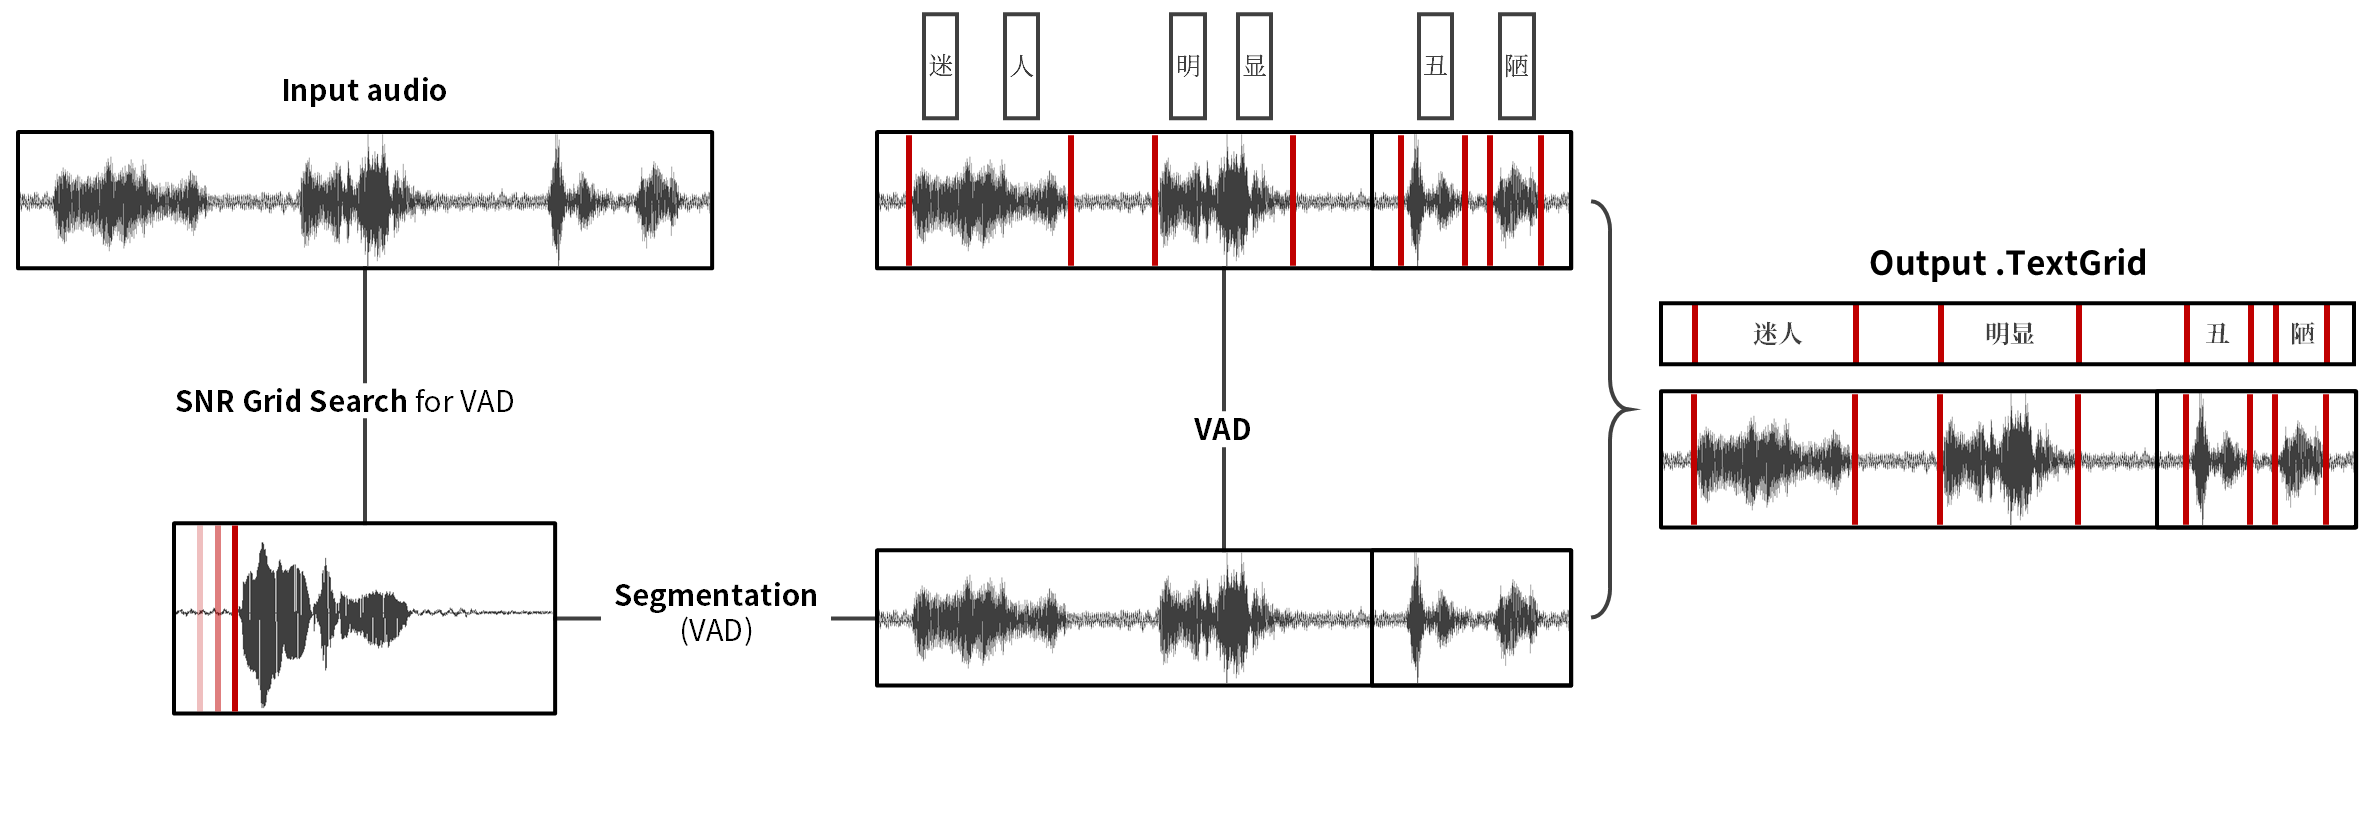
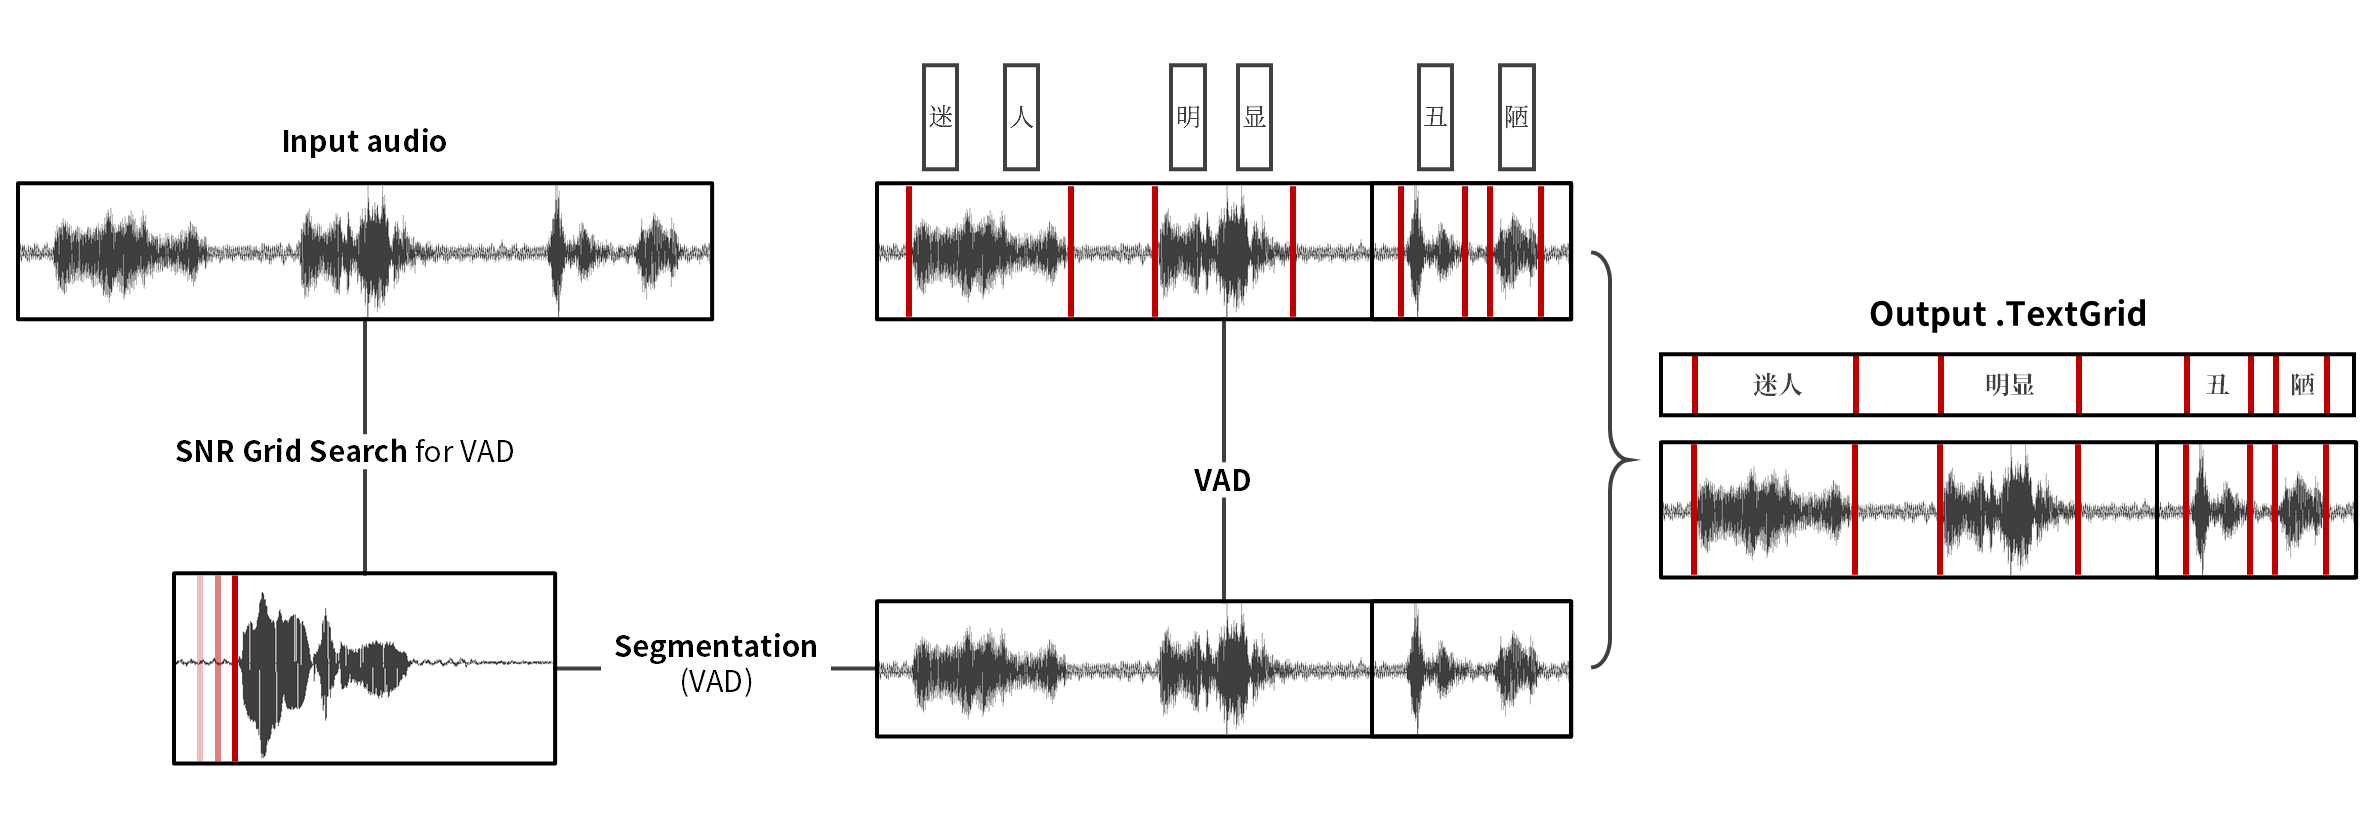
docs: 更新README文档，补充机制图并移除多余换行
修改了README中的格式问题，替换了原有占位的多余换行，更新了展示的机制图片资源

diff --git a/README.md b/README.md
@@ -8,8 +8,6 @@
 
 ***Praasper*** is a speech processing framework designed to help researchers transcribe audio files into word-level timestamps — from a single word to a complete sentence — with high accuracy in both transcription and timestamps.
 
-<br />
-
 ![mechanism](promote/mechanism.png)
 
 In ***Praasper***, the pipeline has four stages. **First**, long recordings are split at natural pauses via pause-aware chunking. **Second**, a two-stage **VAD** (*Praditor*) performs coarse DBSCAN clustering followed by fine sliding-window boundary detection — automatically calibrated per file via a grid search over `amp` and `eps_ratio`. **Third**, **ASR** (*Fun-ASR-Nano*) transcribes each VAD-bounded segment with word-level timestamps. **Fourth**, timestamps are aligned to VAD intervals by temporal overlap and exported as a Praat TextGrid file.